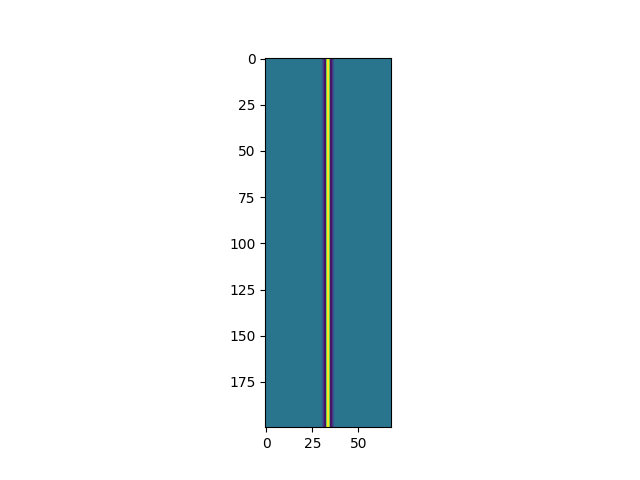
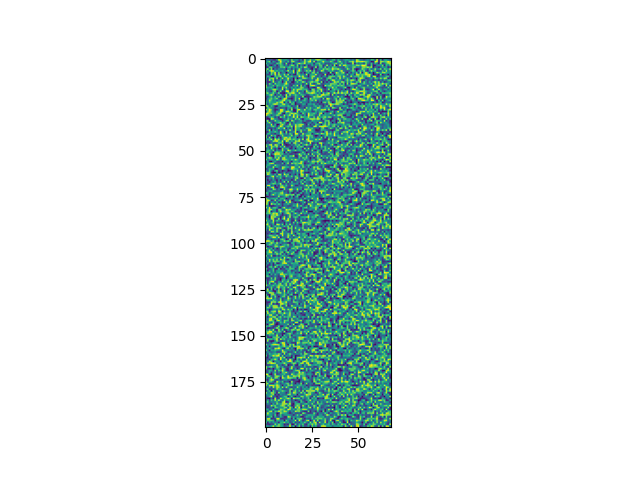
ran with identity and mexican hat architectures

Changed region(s): [[0.4062, 0.125, 0.625, 0.9062]]

diff --git a/RNN_Class.py b/RNN_Class.py
@@ -149,30 +149,20 @@ class ElmanRNN_pred(nn.Module):
         self.act = nn.Softmax(2)  # activation functions
 
         # initialize to mexican hat
-        self.init_mexican_hat_weights()
+        self.init_hidden_weights()
 
-    def mexican_hat_1d(self, size, sigma=1.0):
-        x = torch.linspace(-size // 2, size // 2, steps=size)
-        x2 = x**2
-        mh = (1 - x2 / sigma**2) * torch.exp(-x2 / (2 * sigma**2))  # shape: (size,)
-        return mh
-
-    def init_mexican_hat_weights(self):
-        # broadcast Mexican hat across diagonal of hidden weights
+    def init_hidden_weights(self):
+        # set to +1 on diagonal and -1 on off-diagonal. zero elsewhere.
         with torch.no_grad():
             self.hidden_linear.weight.zero_()
-            mh = self.mexican_hat_1d(self.hidden_dim)
 
             for i in range(self.hidden_dim):
-                # main diagonal
-                self.hidden_linear.weight[i, i] = mh[i]
+                self.hidden_linear.weight[i, i] = 1  # main diagonal
 
-                # lower diagonal
                 if i > 0:
-                    self.hidden_linear.weight[i, i - 1] = mh[i - 1]
-                # upper diagonal
+                    self.hidden_linear.weight[i, i - 1] = 0  # lower off-diagonal
                 if i < self.hidden_dim - 1:
-                    self.hidden_linear.weight[i, i + 1] = mh[i + 1]
+                    self.hidden_linear.weight[i, i + 1] = 0  # upper off-diagonal
 
             self.hidden_linear.bias.zero_()
 
